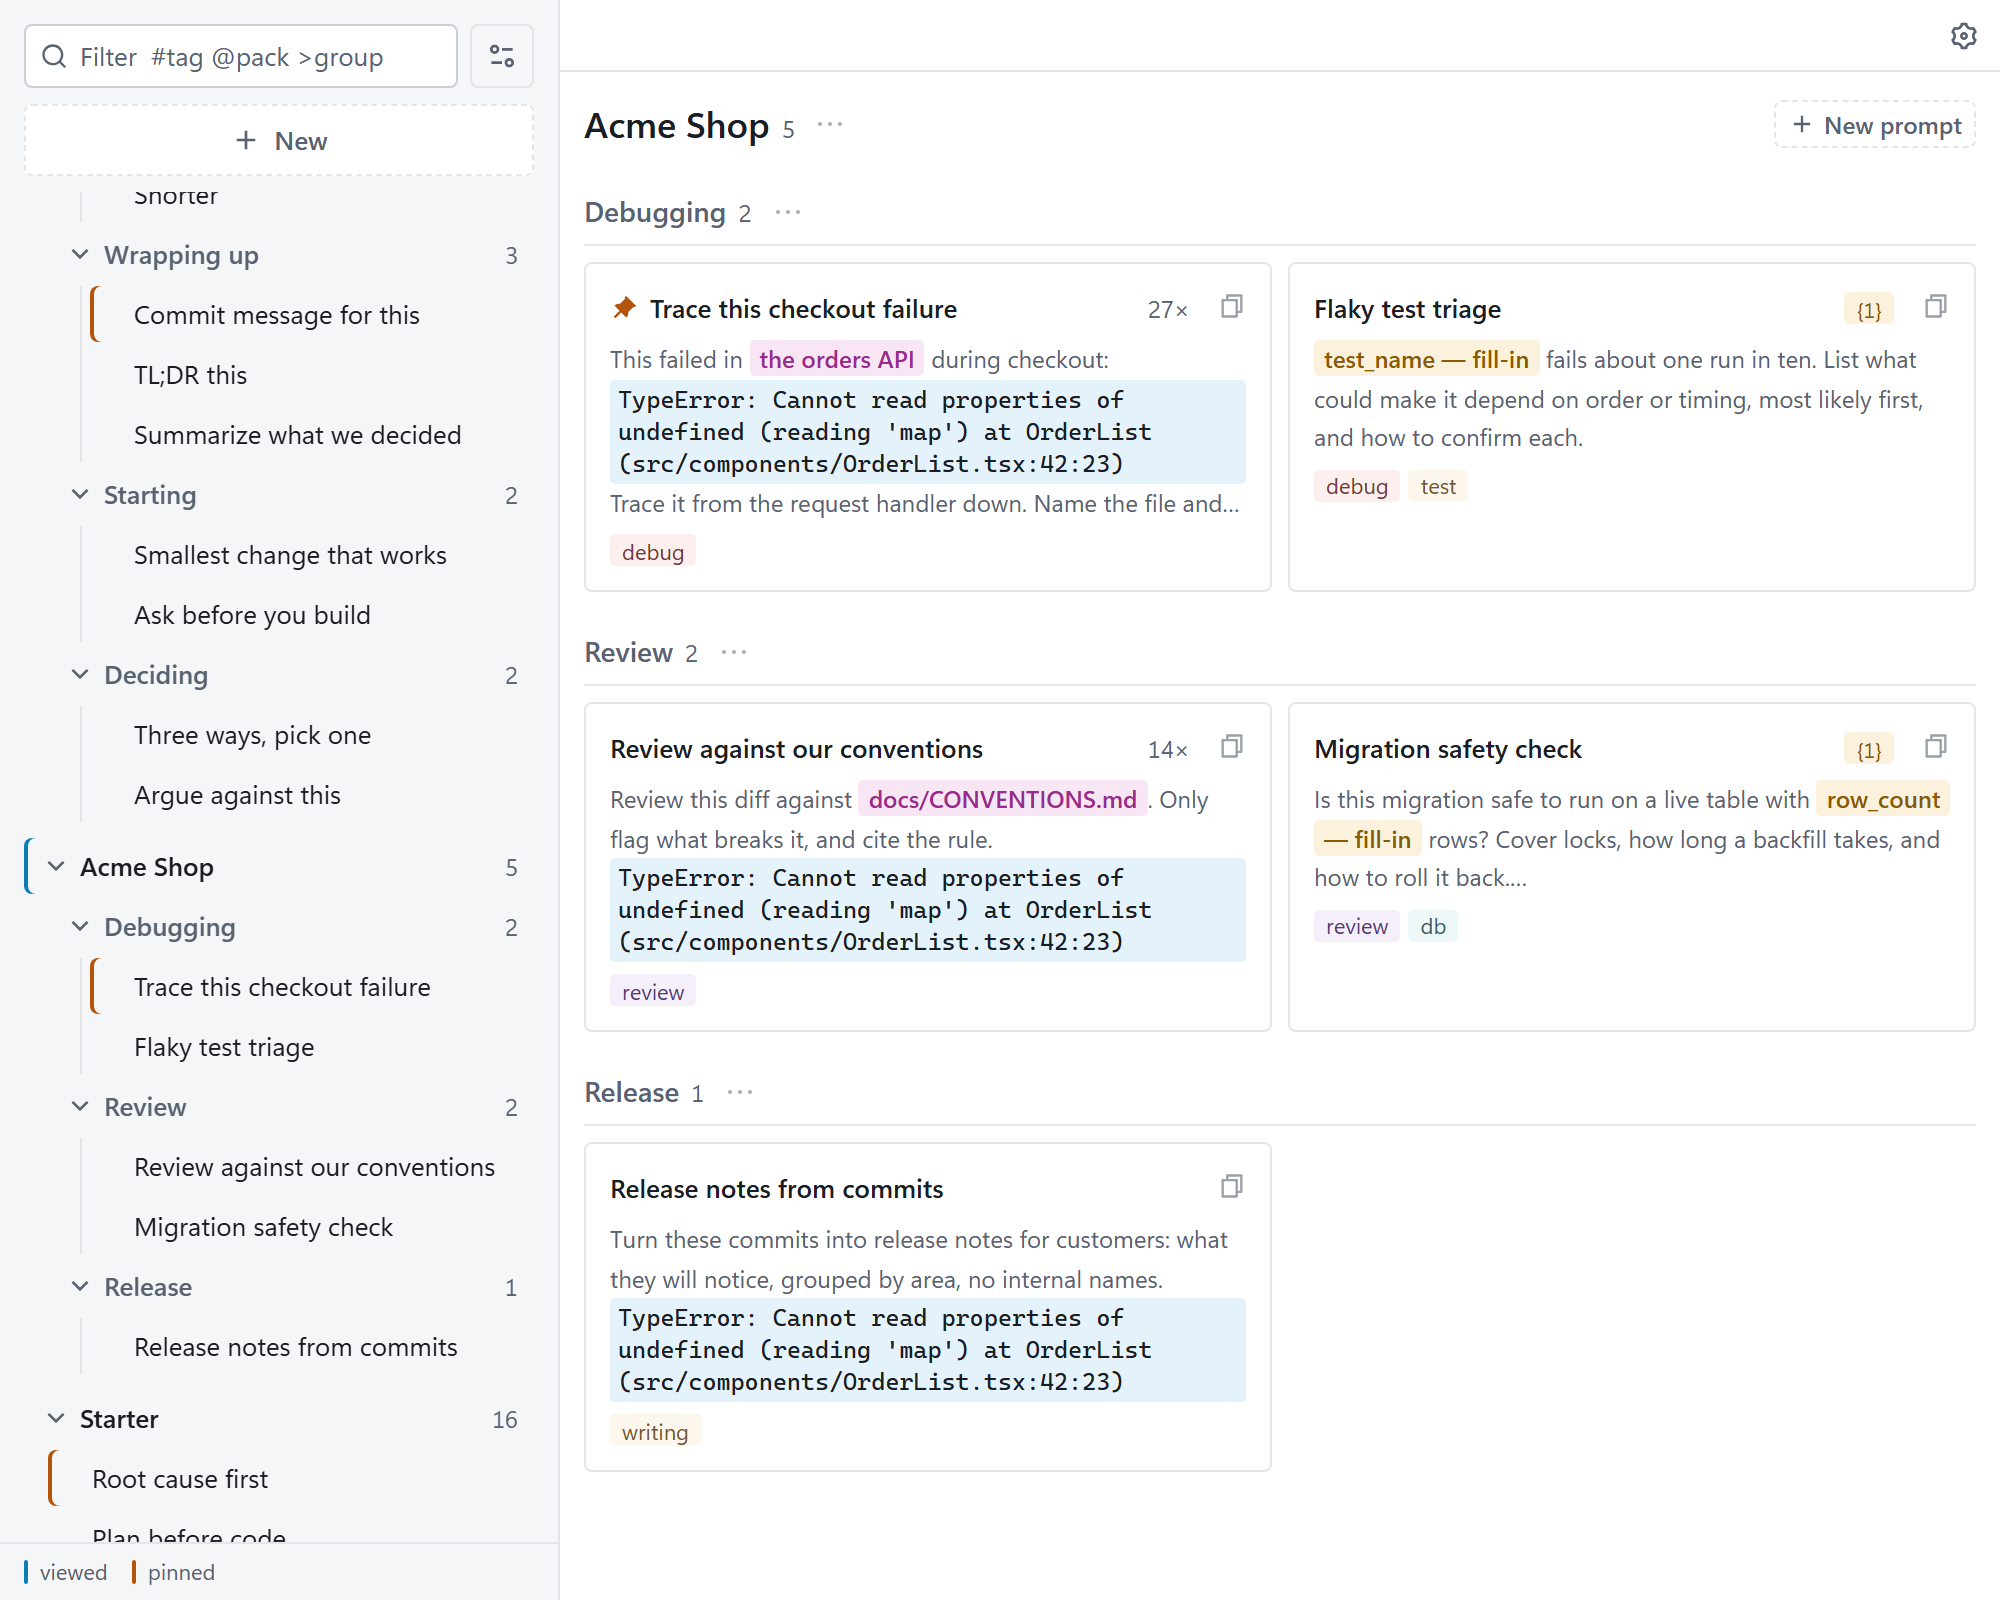
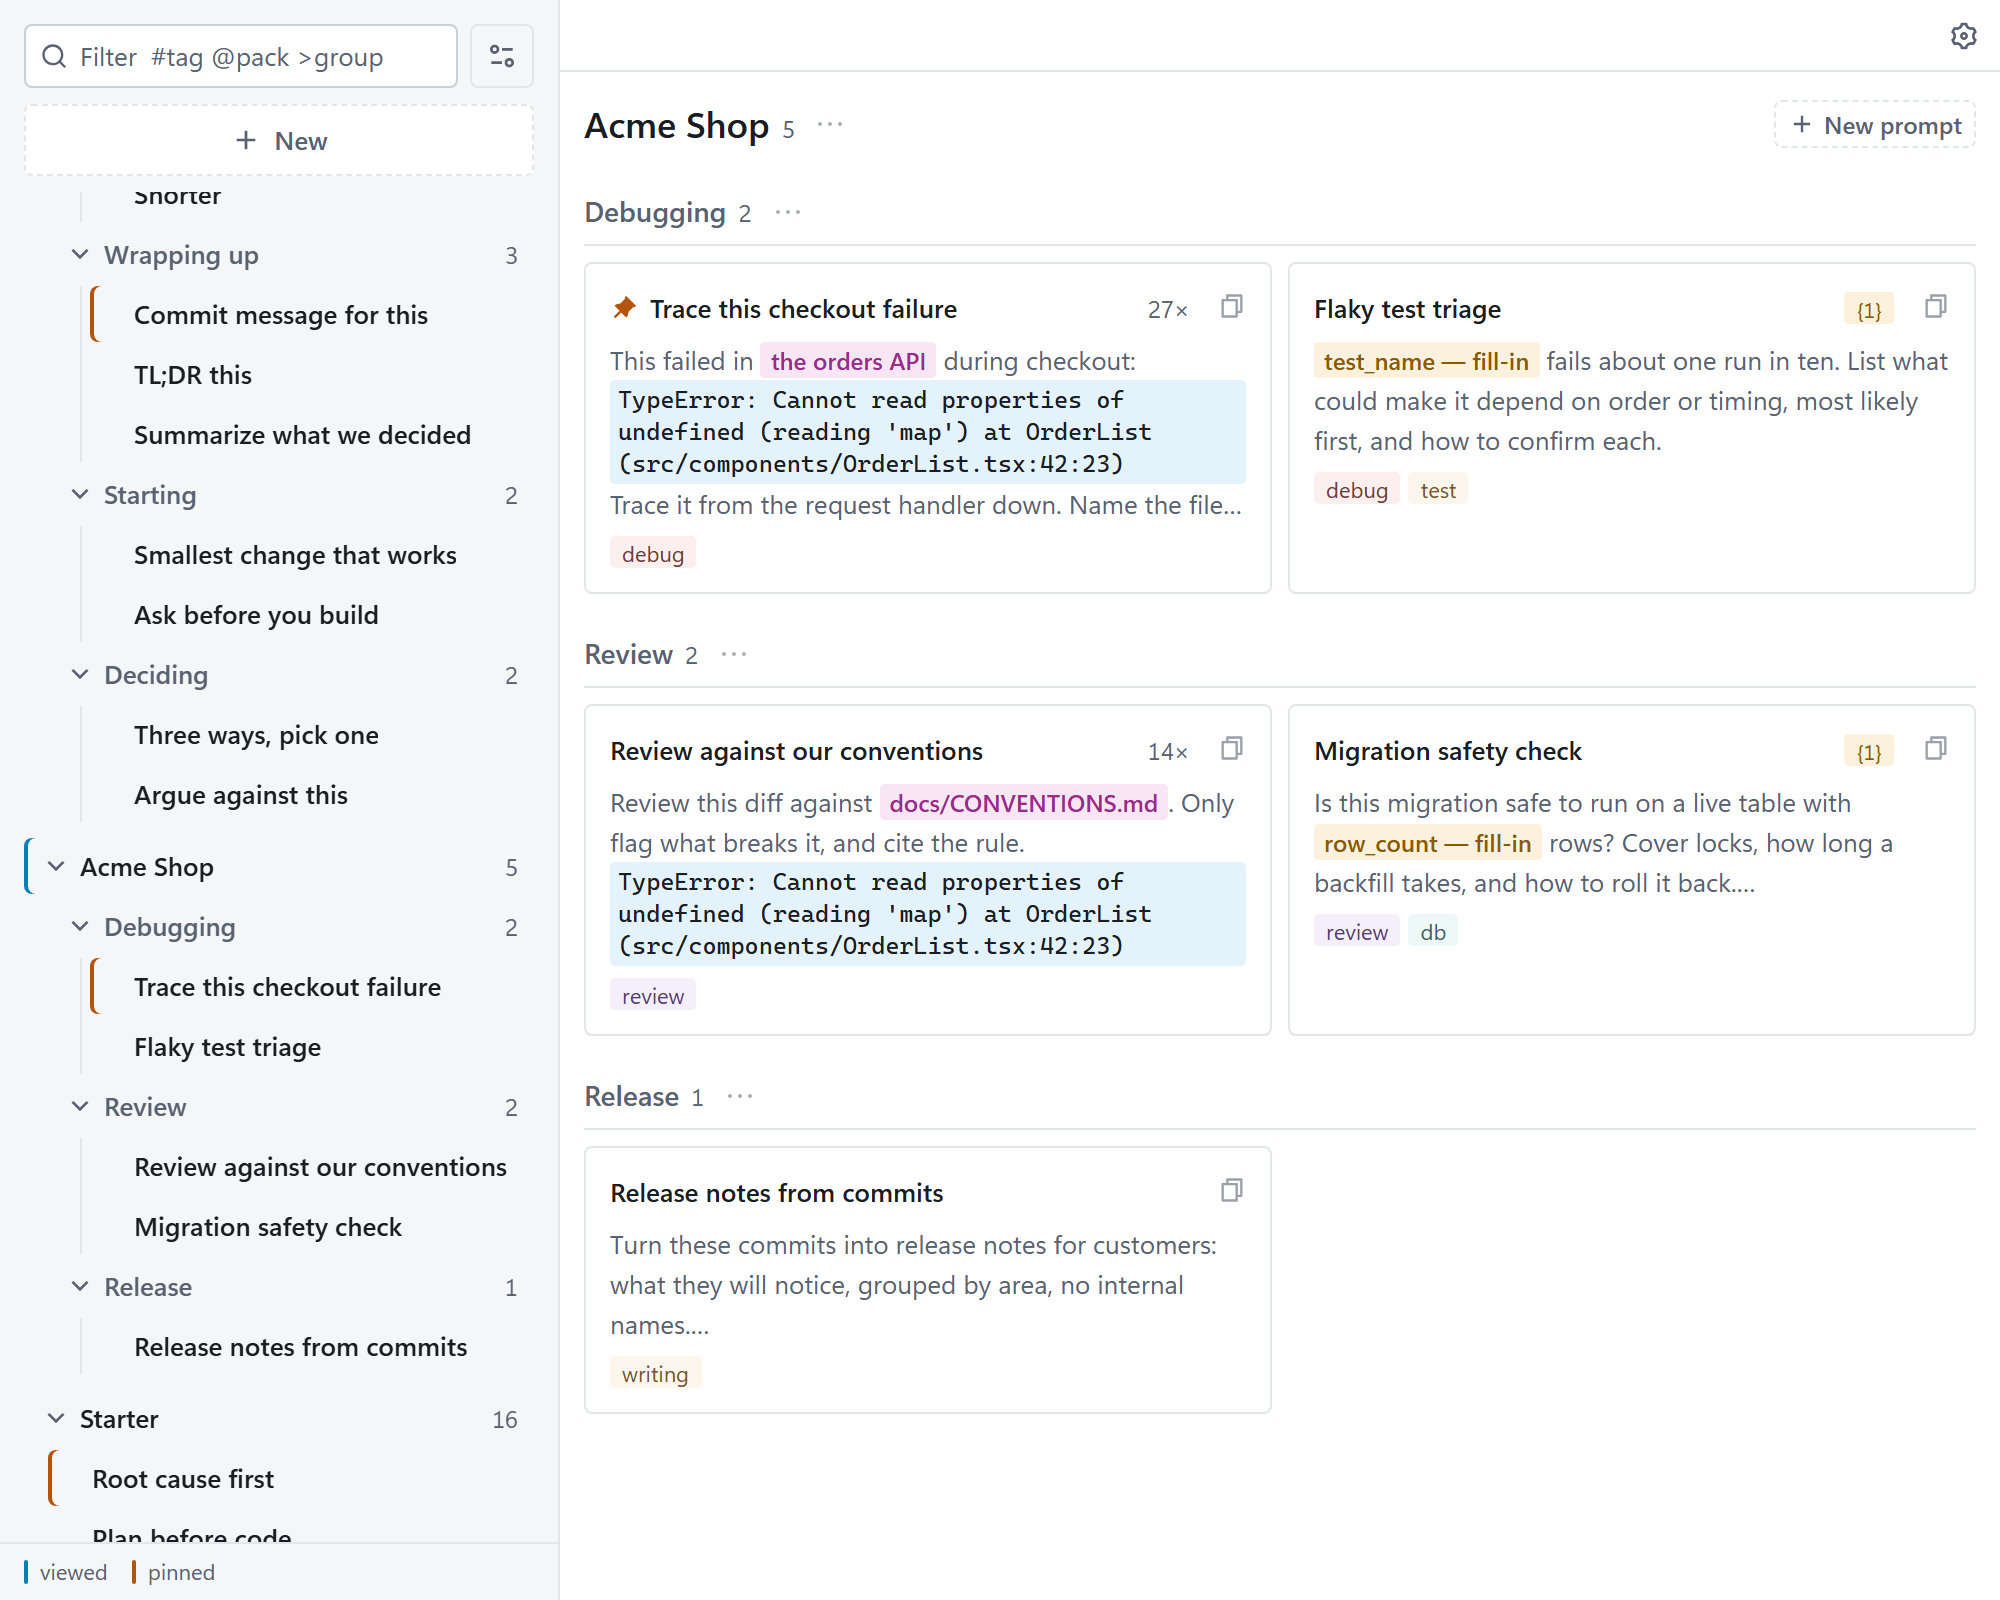
Manager: one row-title weight, and the cards' body at the body size
A prompt's title was 13/400 in the sidebar and 13/600 on an overview
card, the same title in two weights beside each other, which read as two
fonts. Both are 13/500 now, the row-title weight DESIGN.md names and the
popup's rows already use. The card's body preview goes from 12 px
relaxed to the 13/20 body size, like the editor's text. BEHAVIOR.md's
tree paragraph says so; screenshots regenerated.

diff --git a/src/manager/Overview.tsx b/src/manager/Overview.tsx
@@ -218,7 +218,7 @@ function PromptCard({
     >
       <span className="flex min-w-0 items-center gap-1.5 pr-7">
         {s.pinned && <RiPushpinFill className="size-3.5 shrink-0 text-(--warn)" aria-hidden />}
-        <span className="min-w-0 flex-1 truncate font-semibold">
+        <span className="min-w-0 flex-1 truncate font-medium">
           <bdi>{s.title || "(untitled)"}</bdi>
         </span>
         <InputsBadge inputs={inputs} id={badgeId} />
@@ -230,7 +230,7 @@ function PromptCard({
           <bdi>{place}</bdi>
         </span>
       )}
-      <span className="line-clamp-3 break-words text-xs leading-relaxed text-muted-foreground">
+      <span className="line-clamp-3 break-words text-ui text-muted-foreground">
         {excerpt.trim() ? <PromptTokens text={excerpt} clipboard={clipboard} configValues={s.configValues} /> : <i>(empty)</i>}
       </span>
       {tags.length > 0 && (

diff --git a/src/manager/Sidebar.tsx b/src/manager/Sidebar.tsx
@@ -792,7 +792,7 @@ export function Sidebar() {
         title={title}
         data-snip-id={s.id}
         className={cn(
-          "group flex min-w-0 cursor-pointer select-none items-center gap-1.5 rounded-md px-2 py-1 text-ui transition-[transform,box-shadow] duration-150 focus-ring",
+          "group flex min-w-0 cursor-pointer select-none items-center gap-1.5 rounded-md px-2 py-1 text-ui font-medium transition-[transform,box-shadow] duration-150 focus-ring",
           active
             ? cn("text-foreground", SELECTED_BAR)
             : cn("text-foreground hover:bg-hover", s.pinned && PINNED_BAR),

diff --git a/BEHAVIOR.md b/BEHAVIOR.md
@@ -111,7 +111,10 @@ it used to commit half a Japanese or Chinese word.
 
 **The tree tells its levels apart without colour.** A pack is a bold row
 behind its fold chevron, a group a medium row in the secondary ink, a
-prompt a regular row; a pack's children step 12 px in, a group's prompts
+prompt a medium row in the foreground ink (13/500, the one row-title
+weight the popup's rows and the overview's cards use too; the sidebar's
+400 and the cards' 600 had the same title in two weights, and the cards'
+12 px body is the 13/20 body size since 2026-10-10); a pack's children step 12 px in, a group's prompts
 hang from a guide line under its chevron, headers carry the rows' 8 px
 side padding so every count ends on the rows' right edge, and counts sit
 there in mono. A pinned prompt carries a 2 px Warn bar at its left edge
